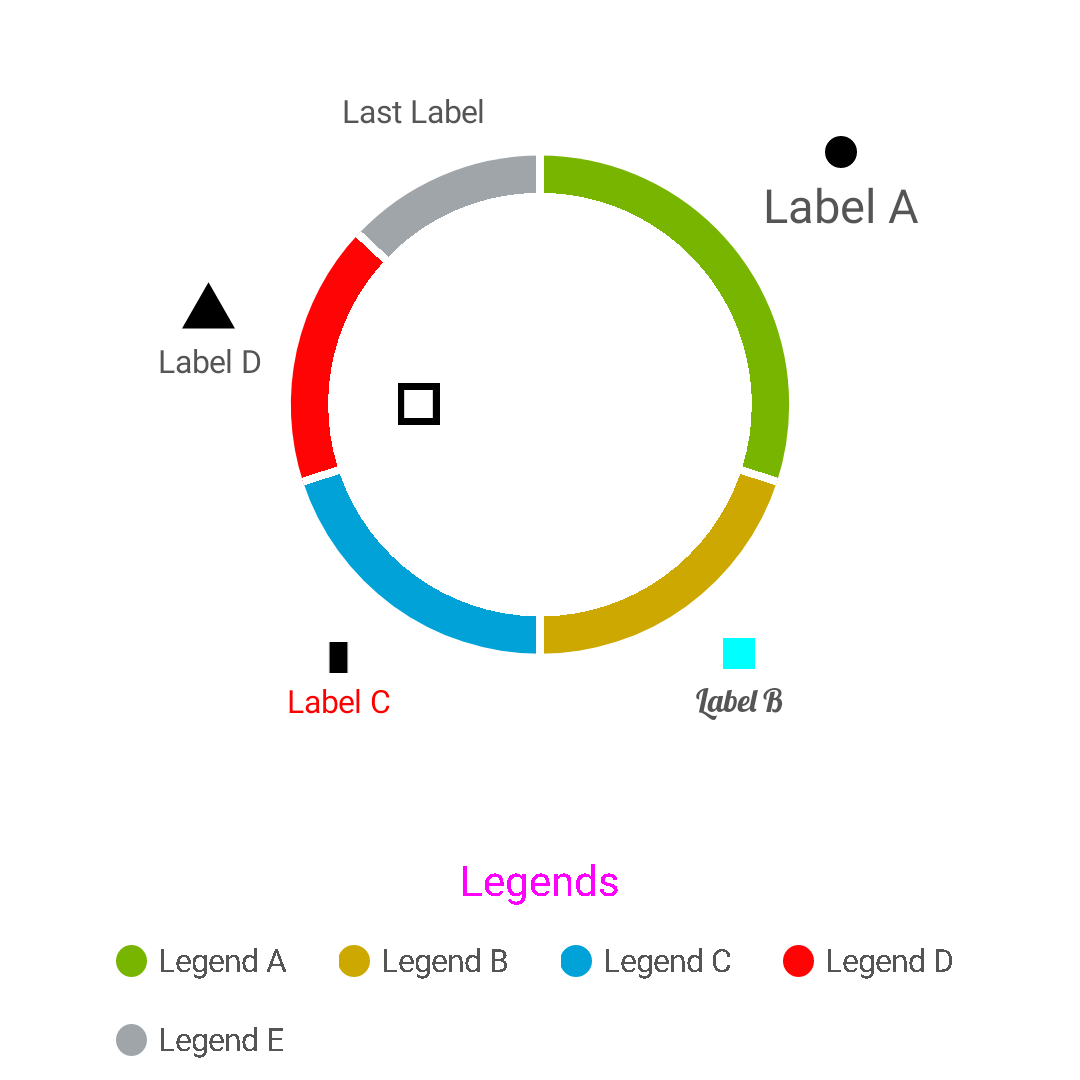
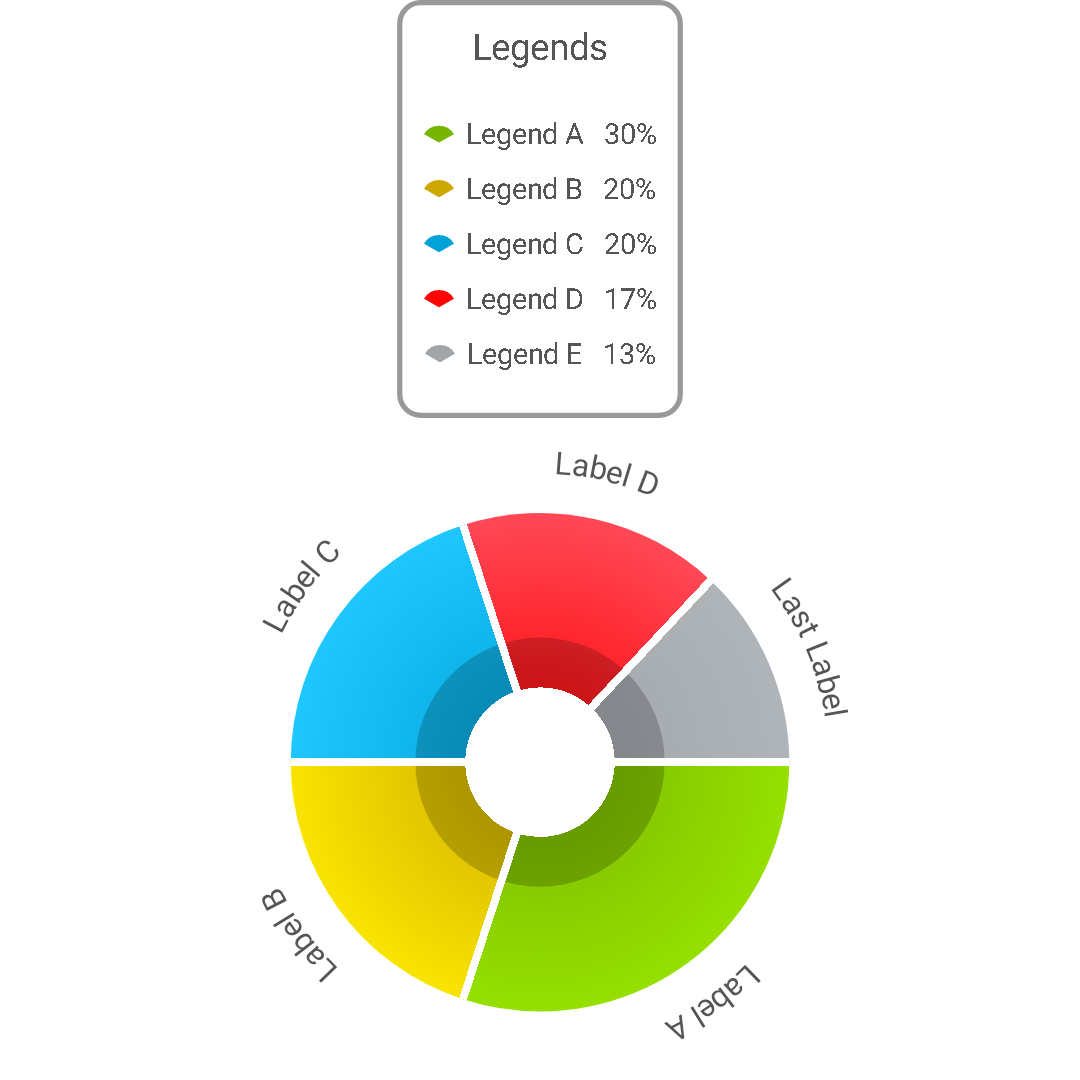
Update some screenshots

diff --git a/piechart/src/androidTest/kotlin/ir/mahozad/android/ScreenshotTest.kt b/piechart/src/androidTest/kotlin/ir/mahozad/android/ScreenshotTest.kt
@@ -718,7 +718,7 @@ class ScreenshotTest {
                 labelType = PieChart.LabelType.OUTSIDE
                 labelIconsPlacement = PieChart.IconPlacement.TOP
                 gradientType = PieChart.GradientType.SWEEP
-                holeRatio = 0.15f
+                holeRatio = 0f
                 overlayRatio = 0.75f
                 gap = 8.dp
             }
@@ -736,6 +736,8 @@ class ScreenshotTest {
                 startAngle = -90
                 isCenterLabelEnabled = true
                 centerLabel = "Center label"
+                centerLabelColor = Color.GRAY
+                centerLabelIconTint = Color.rgb(159, 181, 114)
                 legendsTitleColor = Color.MAGENTA
                 legendsAlignment = Alignment.START
                 centerLabelIcon = PieChart.DefaultIcons.SQUARE_HOLLOW
